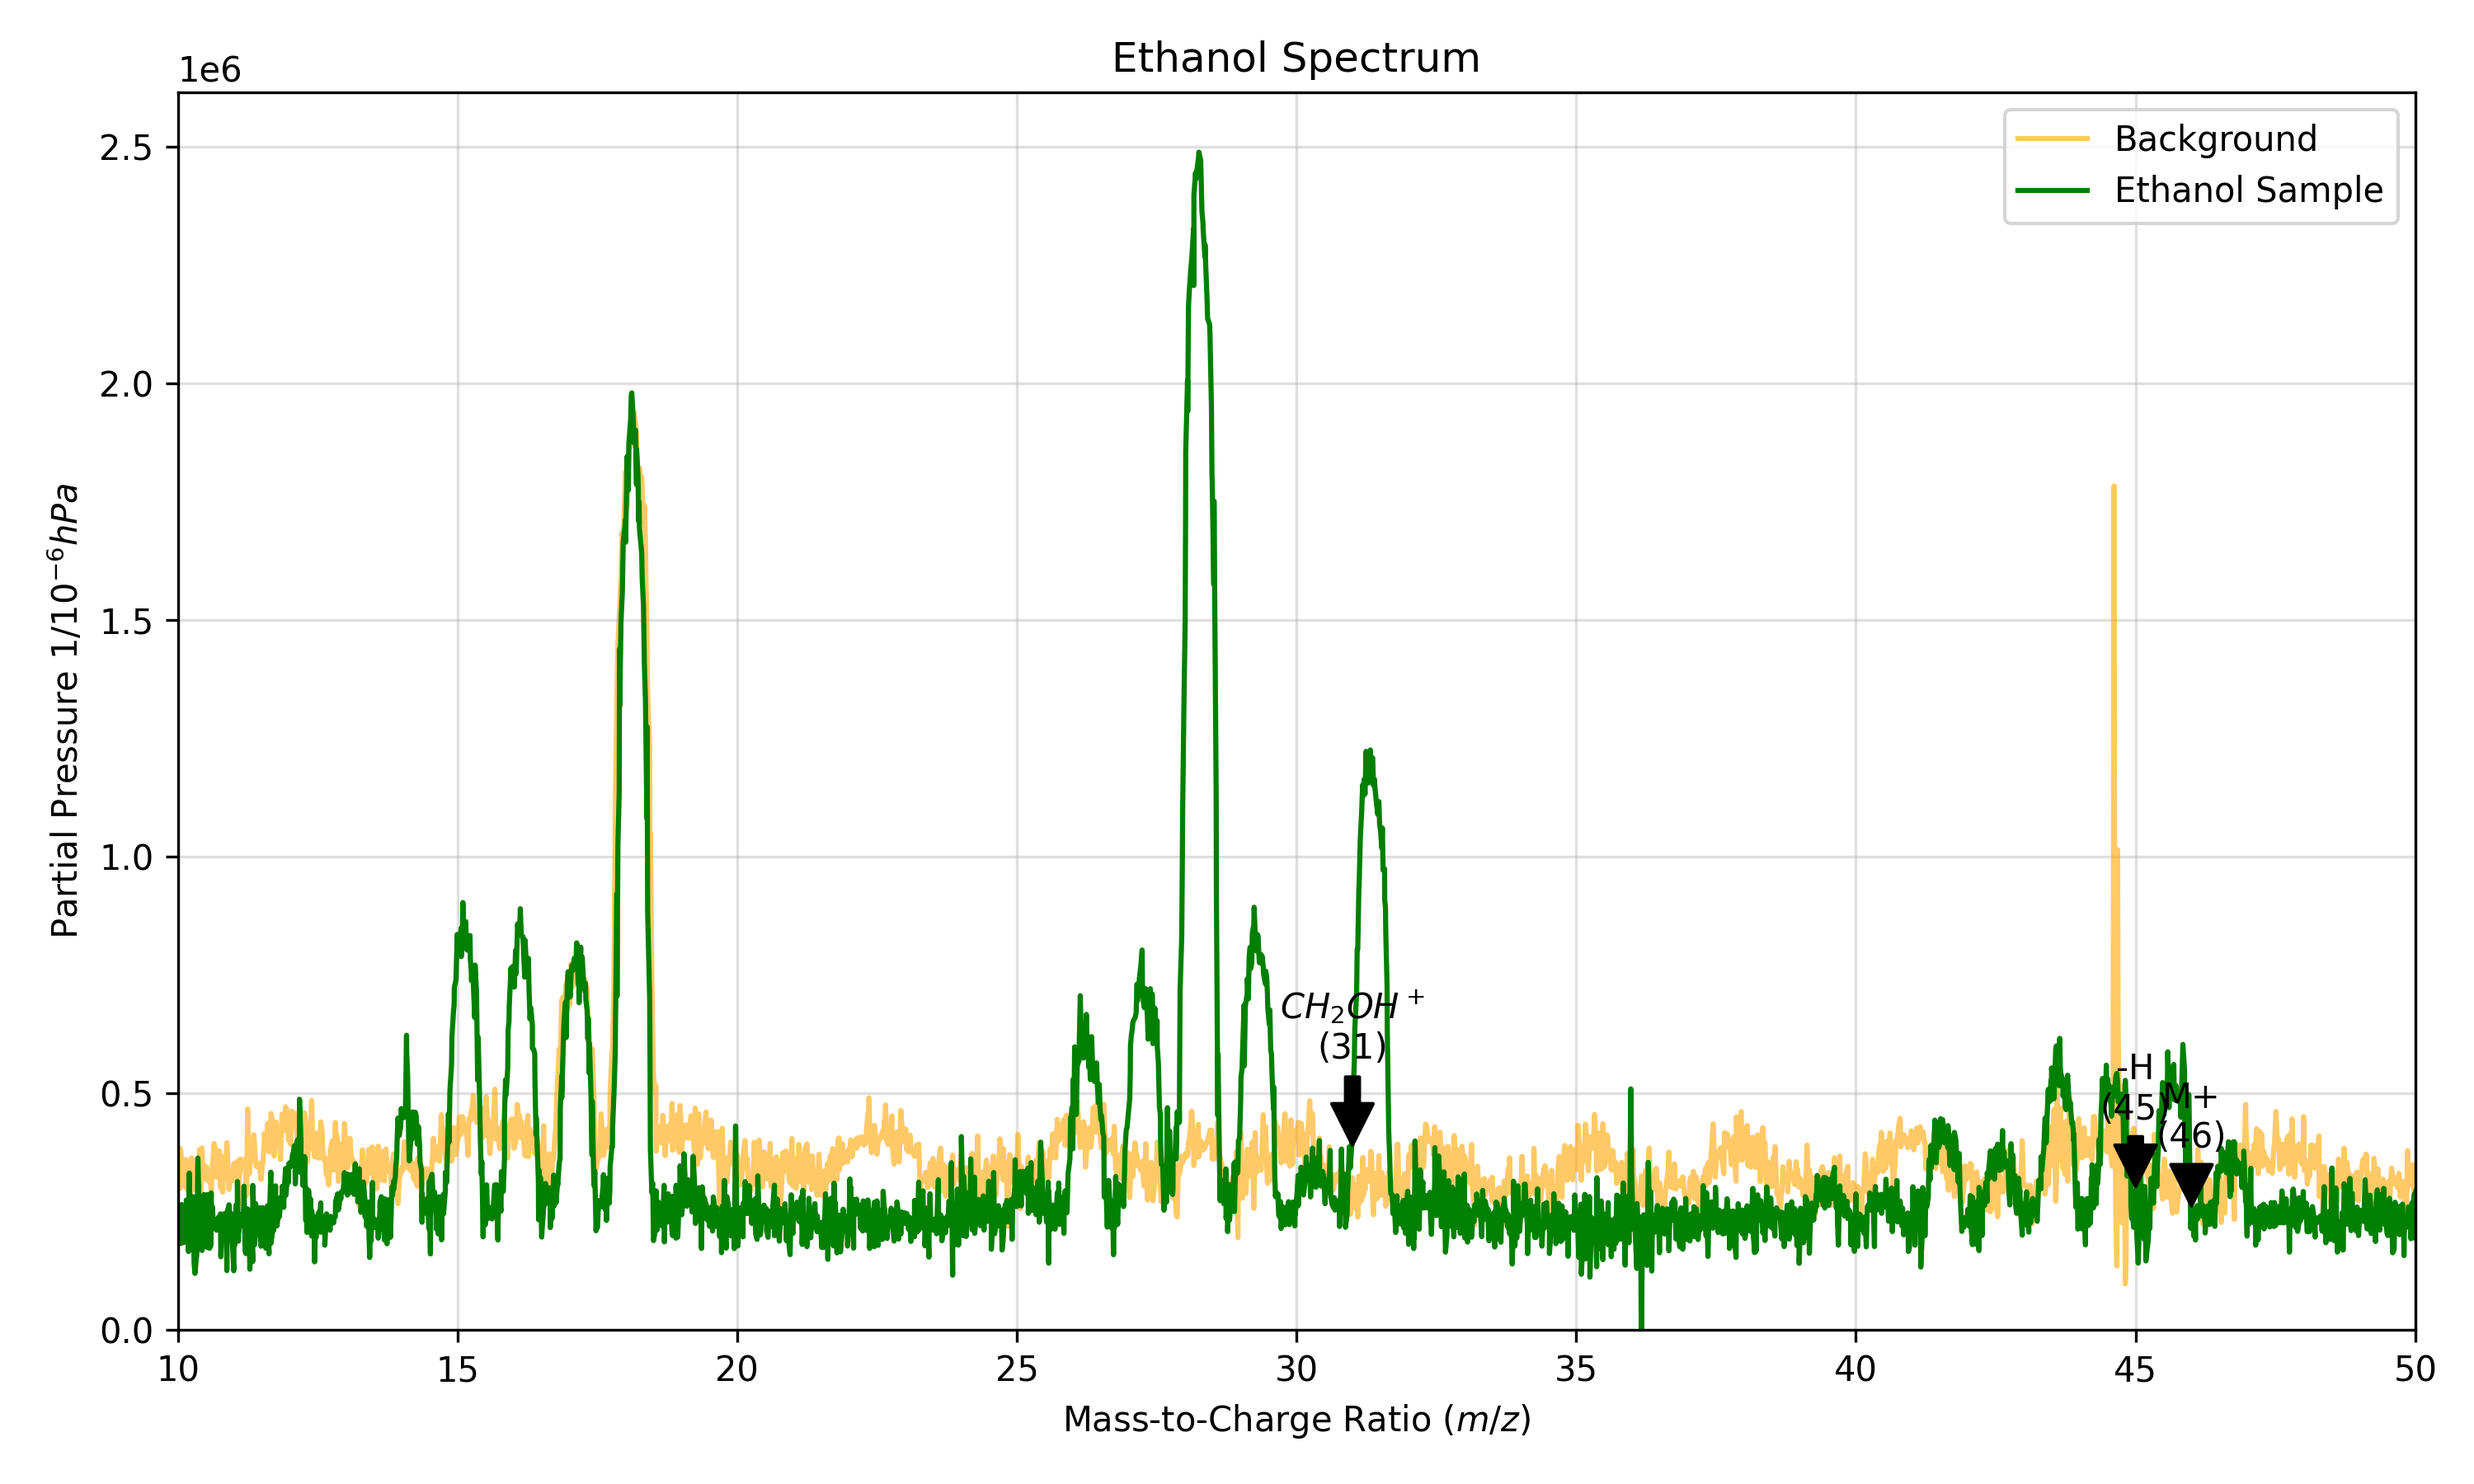
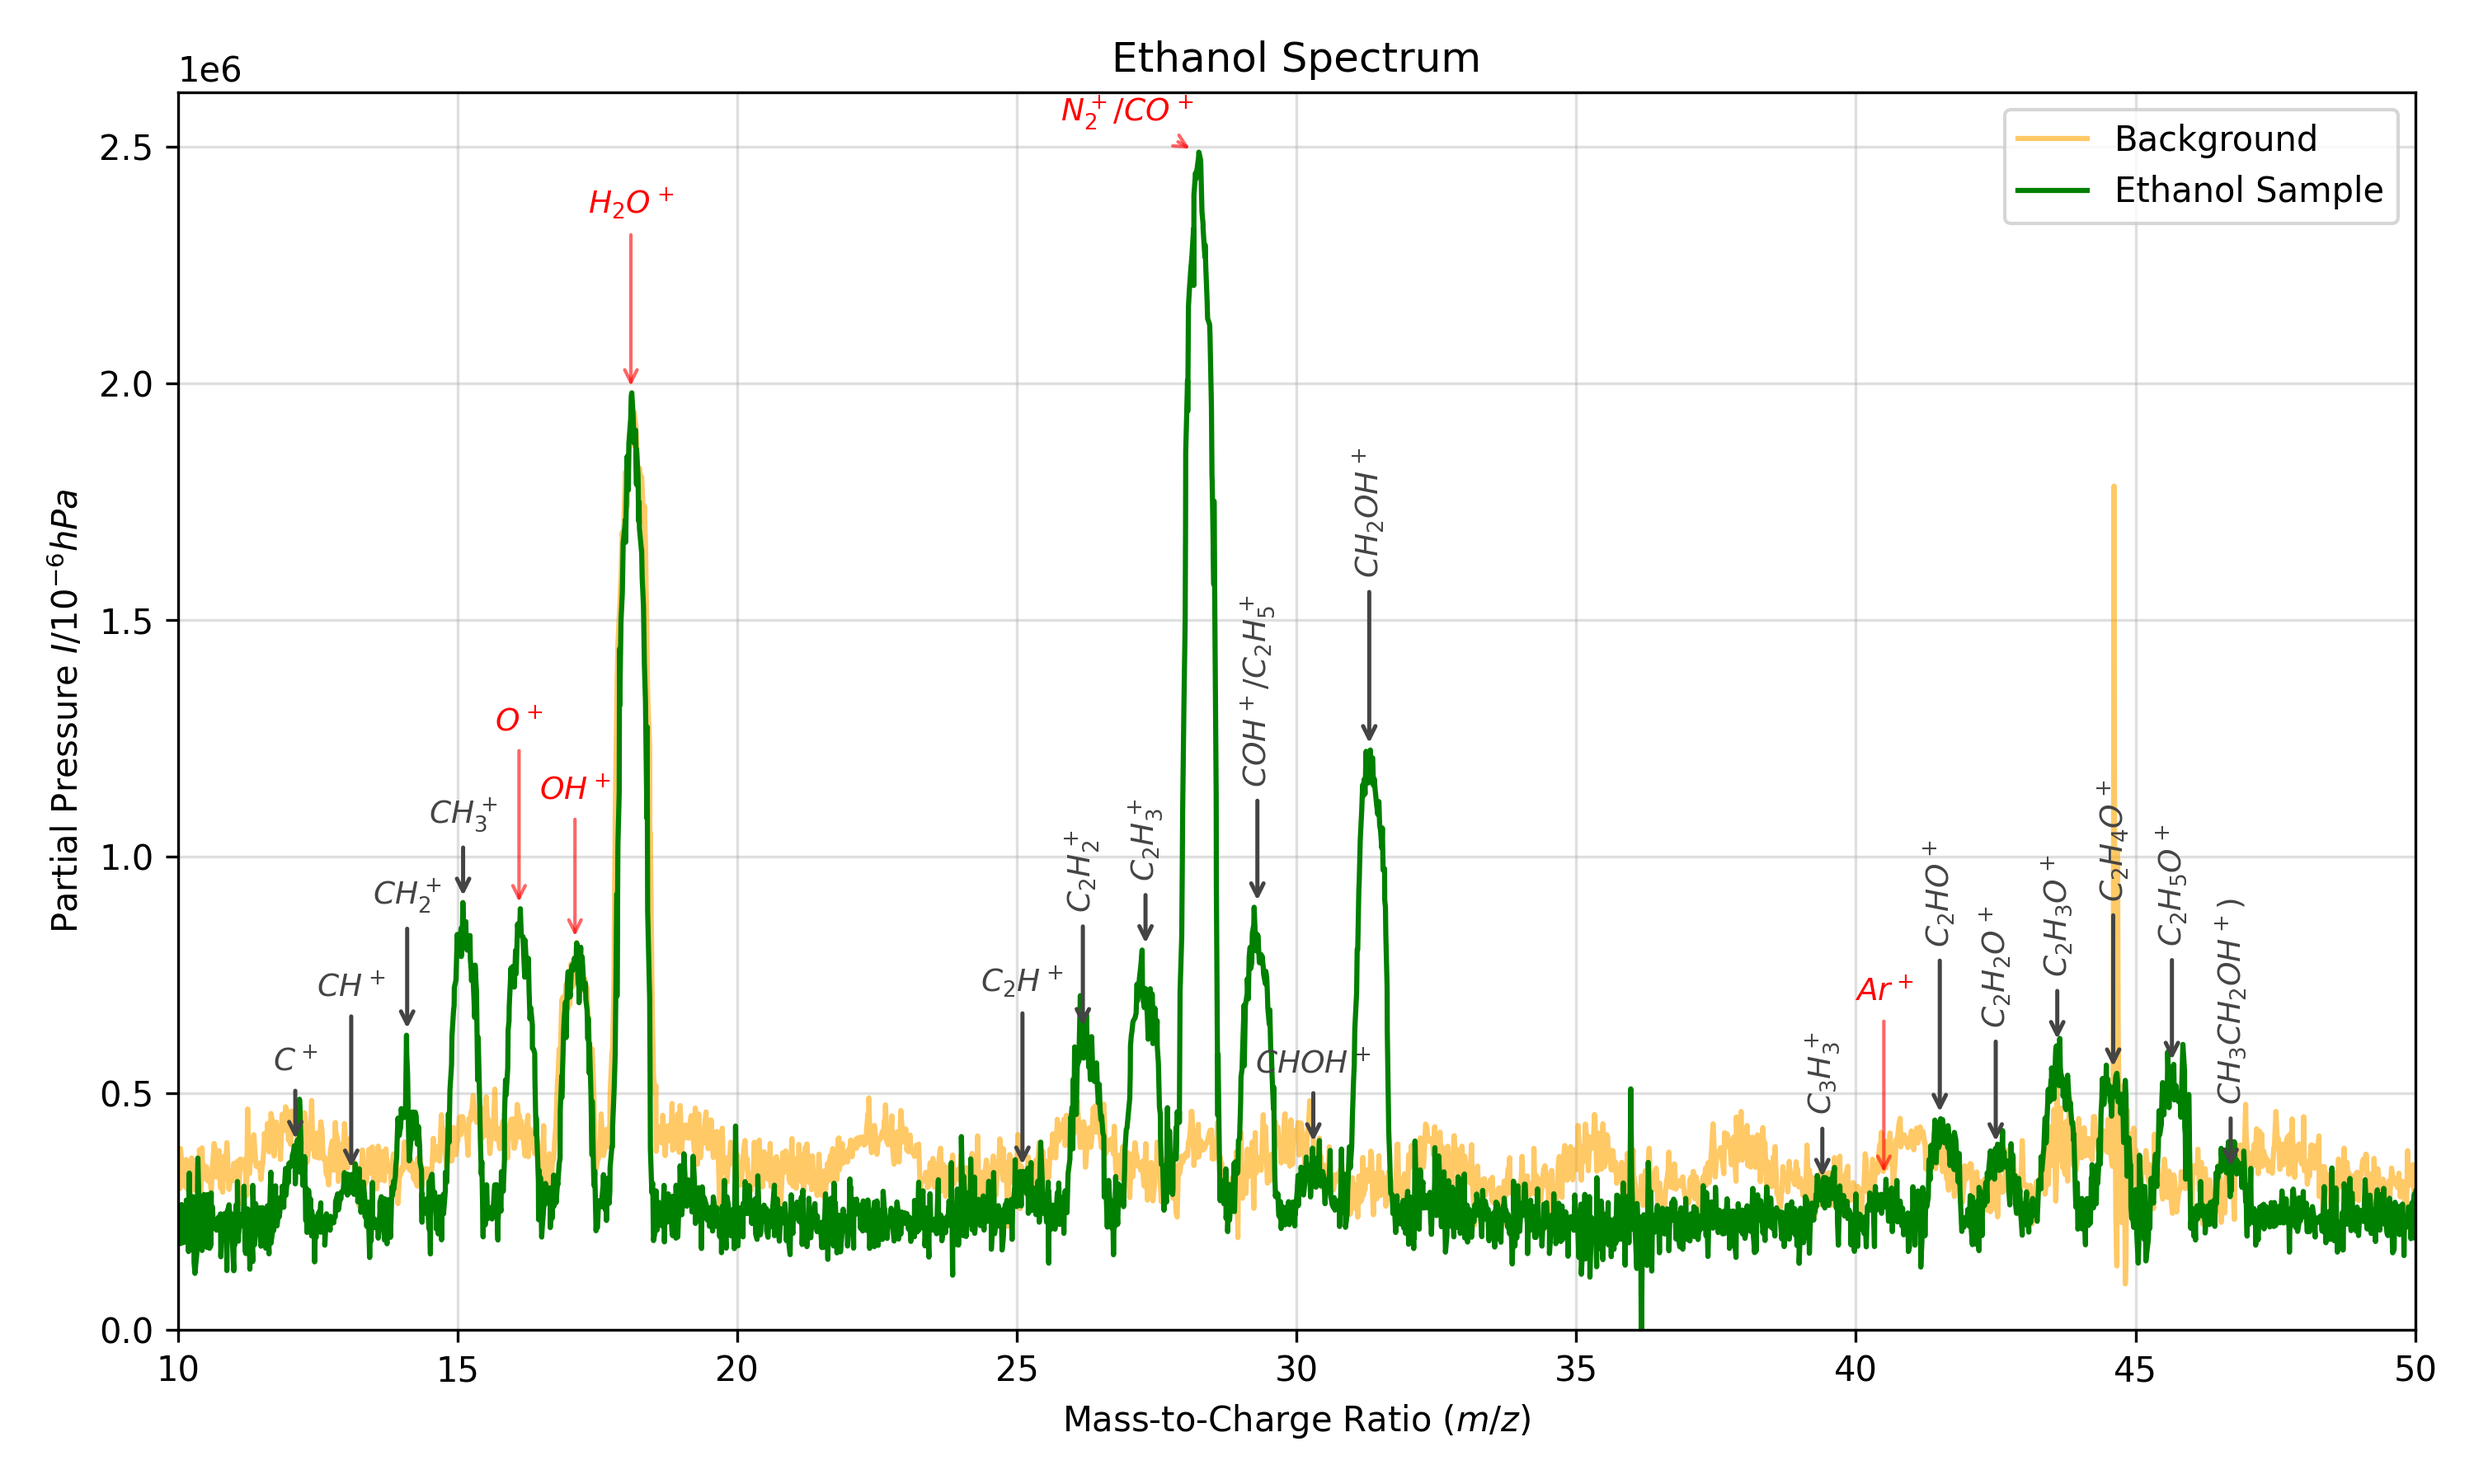
Task 3 finished and plot done

diff --git a/resources/task_5_3.py b/resources/task_5_3.py
@@ -23,24 +23,100 @@ def run_task_5_3():
     plt.plot(m, i_bg_interp, color='orange', alpha=0.6, label='Background')
     plt.plot(m, i_norm, color='green', label='Ethanol Sample')
 
-    # Annotations
-    peaks = [
-        (46, 'M+\n(46)'), 
-        (45, '-H\n(45)'), 
-        (31, '$CH_2OH^+$\n(31)')
+    # --- PEAK DATA: (Mass, Label, Is_Impurity) ---
+    peak_data = [
+        # --- C2HxO+ Group (46-41) ---
+        (46.7, '$CH_3CH_2OH^+$)', False), # Parent
+        (45.65, '$C_2H_5O^+$', False),          # M - H
+        (44.6, '$C_2H_4O^+$', False),
+        (43.6, '$C_2H_3O^+$', False),
+        (42.5, '$C_2H_2O^+$', False),
+        (41.5, '$C_2HO^+$', False),
+        (39.4, '$C_3H_3^+$', False),
+
+        # --- Impurities ---
+        (40.5, '$Ar^+$', True),                # "Aus dem vorherigen Versuch"
+
+        # --- CHxO+ Group (31-28) ---
+        (31.3, '$CH_2OH^+$', False),            # Base Peak (Primary Alcohol)
+        (30.3, '$CHOH^+$', False),
+        (29.3, '$COH^+/C_2H_5^+$', False),      # Overlap of COH+ and C2H5+ mentioned in text
+        
+        # --- Mass 28 Overlap ---
+        (28.2, '$N_2^+/CO^+$', True),           # "aus der Luft" (Impurity dominant)
+
+        # --- C2Hx+ Group (27-25) ---
+        (27.3, '$C_2H_3^+$', False),
+        (26.18, '$C_2H_2^+$', False),
+        (25.1, '$C_2H^+$', False),
+
+        # --- Water Group (Impurity/Mix) ---
+        (18.1, '$H_2O^+$', True),               # "aus Feuchtigkeit"
+        (17.1, '$OH^+$', True),                 # "Feuchtigkeit und OH-Gruppe"
+        (16.1, '$O^+$', True),
+
+        # --- Methyl Group (15-12) ---
+        (15.1, '$CH_3^+$', False),
+        (14.1, '$CH_2^+$', False),
+        (13.1, '$CH^+$', False),
+        (12.1, '$C^+$', False),
     ]
-    
-    for mass, txt in peaks:
-        h = get_peak_height_robust(m, i_norm, mass, 1.0)
+
+    # --- PLOTTING LOOP ---
+    for idx, (mass, txt, is_impurity) in enumerate(peak_data):
+        h = get_peak_height_robust(m, i_norm, mass, 0.8)
+        
         if h > 0:
-            plt.annotate(txt, xy=(mass, h), xytext=(mass, h*1.5),
-                         arrowprops=dict(facecolor='black', shrink=0.05), ha='center')
+            # STYLE LOGIC
+            if is_impurity:
+                color = 'red'
+                alpha = 0.7
+                fontweight = 'normal'
+                offset_y = 40 + (10 * (idx % 2))
+                x=0
+                angle=90
+                arrow_style = dict(arrowstyle='->', color=color, lw=1, alpha=0.6)
+                if mass==28.2: 
+                    offset_y = 6
+                    x=-20 
+                    angle=0
+            
+            elif mass in [46, 31, 45]:
+                # Main Peaks: Black, Bold (Parent & Base)
+                color = 'blue'
+                alpha = 1.0
+                fontweight = 'bold'
+                offset_y = 25
+                x=0
+                angle=90
+                arrow_style = dict(arrowstyle='->', color=color, lw=2)
+            
+            else:
+                # Minor Fragments: Dark Gray
+                color = '#444444'
+                alpha = 0.9
+                fontweight = 'normal'
+                offset_y = 20 + (15 * (idx % 3))
+                x=0
+                angle=90
+                arrow_style = dict(arrowstyle='->', color=color, lw=1.2)
+
+            plt.annotate(
+                txt, 
+                xy=(mass, h), 
+                xytext=(x, offset_y), 
+                textcoords='offset points',
+                arrowprops=arrow_style,
+                ha='center', va='bottom', fontsize=9, 
+                color=color, fontweight=fontweight,
+                rotation=angle if len(txt) > 8 else 0
+            )
 
     plt.xlim(10, 50)
     plt.ylim(0)
     plt.title('Ethanol Spectrum')    
     plt.xlabel('Mass-to-Charge Ratio ($m/z$)')
-    plt.ylabel('Partial Pressure $1/10^{-6}hPa$')
+    plt.ylabel('Partial Pressure $I/10^{-6}hPa$')
     plt.legend()
     plt.grid(True, alpha=0.4)
     plt.tight_layout()

diff --git a/Evaluation/Evaluation_QMS.tex b/Evaluation/Evaluation_QMS.tex
@@ -562,7 +562,7 @@ Figure~\ref{fig:acetone} contains the acetone spectrum in the range of 10 to 60 
 \begin{figure}[htbp]
   \centering
   \includegraphics[width=0.9\linewidth]{../resources/task_5_2_acetone.png}
-  \caption{Corrected Argon spectrum, background spectrum, and recorded background spectrum. The intensities were normalized according to their respective pressure values and the spectrums were matched using the $H_2O^+$ peak as reference.}\label{fig:acetone}
+  \caption{Mass-to-charge spectrum of the recorded measurement for the Acetone sample with normalized pressure.}\label{fig:acetone}
 \end{figure}
 
 \begin{figure}[htbp]
@@ -572,12 +572,19 @@ Figure~\ref{fig:acetone} contains the acetone spectrum in the range of 10 to 60 
 \end{figure}
 
 \subsection{Ethanol Spectrum}
+Figure~\ref{fig:ethanol} contains the ethanol spectrum in the range of 10 to 50 $m/z$, with normalized pressure. The dominant peaks (blue), fragment peaks (gray), and impurities (red) were labelled in the plot. The comparison to the reference spectrum again confirms the expected peaks found in our data (Figure~\ref{fig:argon-reference}).
 
-\begin{itemize}
-  \item Plot the ethanol spectrum and normalize to pressure
-  \item Assign the dominant fragment groups (C$_2$H$_x$O$^+$ family etc) and note overlaps with common background peaks
-  \item Compare to the provided reference spectrum and comment on differences (e.g. remaining rest-gas contribution)
-\end{itemize}
+\begin{figure}[htbp]
+  \centering
+  \includegraphics[width=0.9\linewidth]{../resources/task_5_3_ethanol.png}
+  \caption{Mass-to-charge spectrum of the recorded measurement for the Ethanol sample with normalized pressure.}\label{fig:ethanol}
+\end{figure}
+
+\begin{figure}[htbp]
+  \centering
+  \includegraphics[width=0.6\linewidth]{../resources/figures/QMS_Beispiel-Spektren/QMS_Beispiel-Spektren-4.png}
+  \caption{Reference spectrum for Ethanol.}\label{fig:ethanol-reference}
+\end{figure}
 
 \subsection{Air Spectrum}
 

diff --git a/resources/task_5_2.py b/resources/task_5_2.py
@@ -126,7 +126,7 @@ def run_task_5_2():
     plt.ylim(0)
     plt.title('Acetone Spectrum')
     plt.xlabel('Mass-to-Charge Ratio ($m/z$)')
-    plt.ylabel('Partial Pressure $1/10^{-6}hPa$')
+    plt.ylabel('Partial Pressure $I/10^{-6}hPa$')
     plt.legend()
     plt.grid(True, alpha=0.5)
     plt.tight_layout()

diff --git a/resources/task_5_1.py b/resources/task_5_1.py
@@ -62,7 +62,7 @@ def run_task_5_1():
     plt.ylim(0)
     plt.title('Argon Spectrum')
     plt.xlabel('Mass-to-Charge Ratio ($m/z$)')
-    plt.ylabel('Partial Pressure $1/10^{-6}hPa$')
+    plt.ylabel('Partial Pressure $I/10^{-6}hPa$')
     plt.legend()
     plt.grid(True, alpha=0.5)
     plt.tight_layout()
